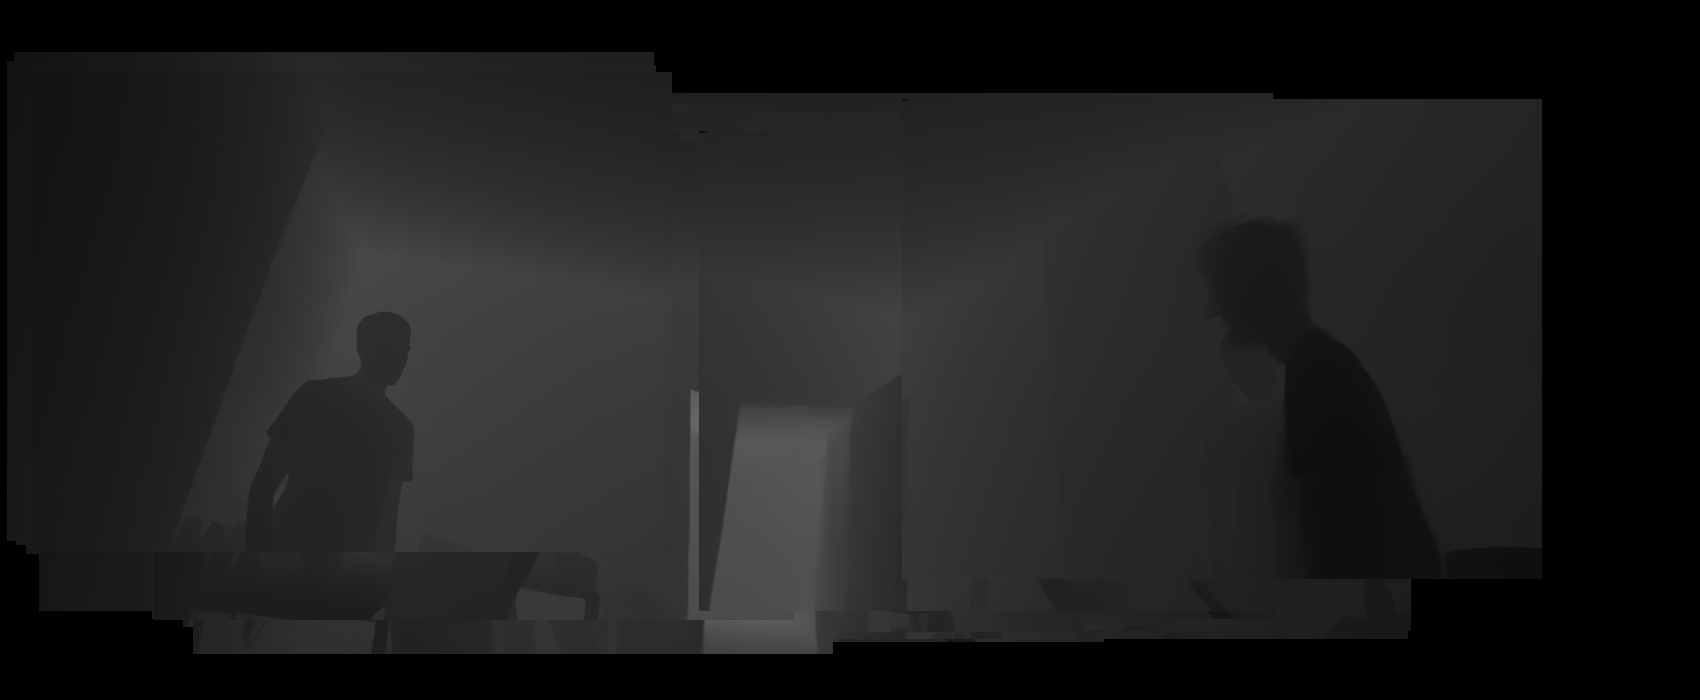
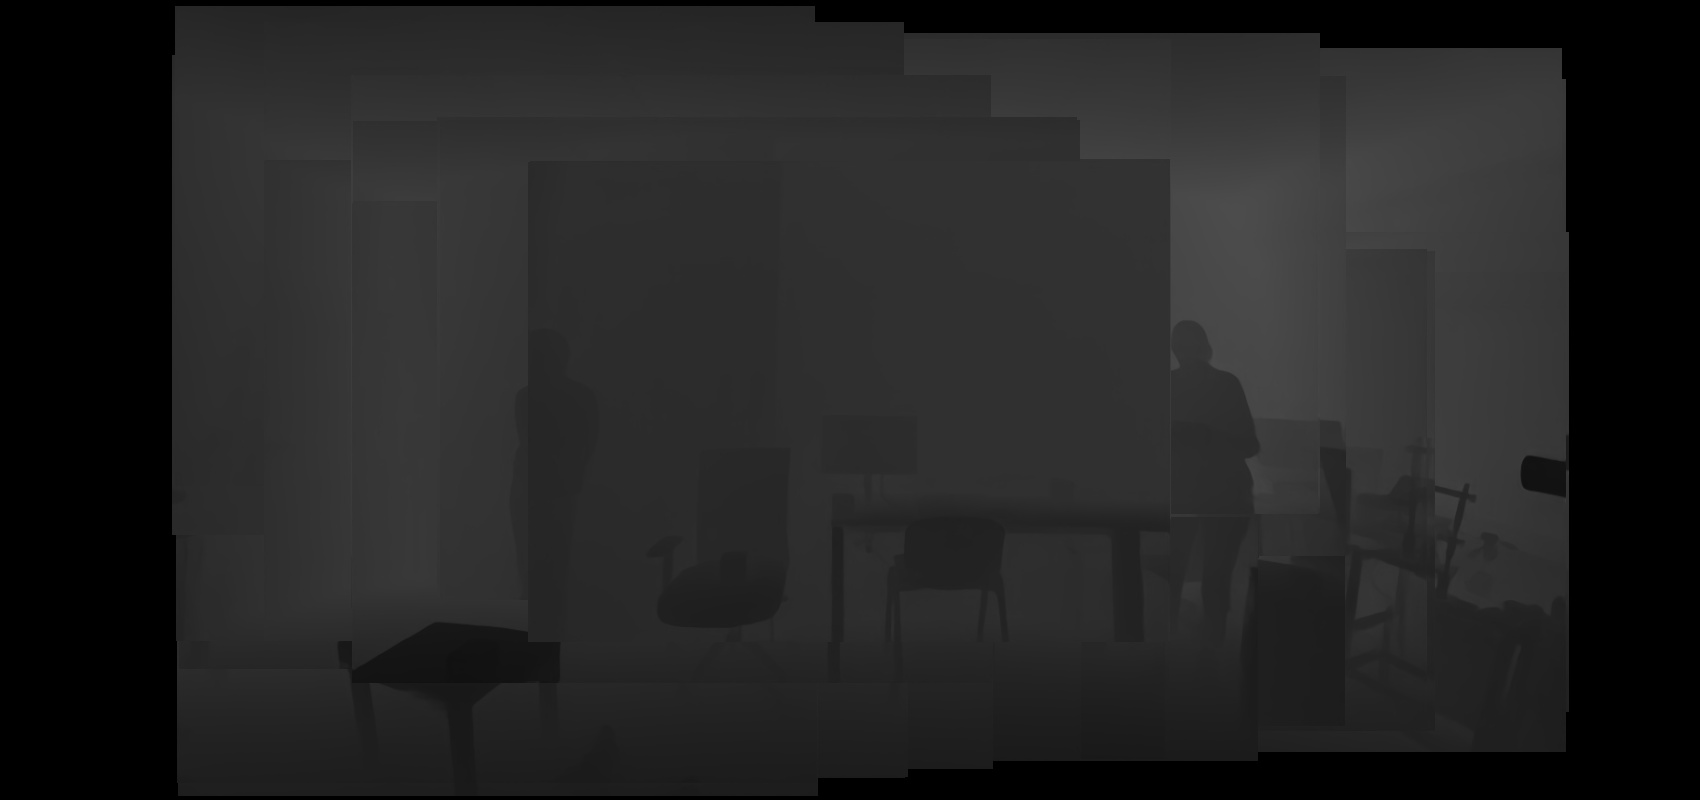
fixed vertical offsets, cube calibration

diff --git a/stiching.py b/stiching.py
@@ -13,16 +13,16 @@ from depth_anything_v2.dpt import DepthAnythingV2
 IMG_WIDTH = 640
 IMG_HEIGHT = 480
 PANORAMA_WIDTH = 1700
-PANORAMA_HEIGHT = 700
+PANORAMA_HEIGHT = 800
 
 LEFT_YAW = -60
 RIGHT_YAW = 60
-BOTTOM_PITCH = 0
-TOP_PITCH = 40
+BOTTOM_PITCH = -20
+TOP_PITCH = 20
 
 PIXEL_LOG_FILE = 'panorama_pixel_log.json'
 YOLO_PATH = '/home/g/gajdosech2/image-stitching-supeglue/yolov8l-worldv2.pt'
-DE_PATH = '/home/g/gajdosech2/Depth-Anything-V2/checkpoints/depth_anything_v2_metric_hypersim_vitl.pth'
+DE_PATH = '/home/g/gajdosech2/Depth-Anything-V2/checkpoints/depth_anything_v2_metric_hypersim_vits.pth'
 SAM_PATH = '/home/g/gajdosech2/image-stitching-supeglue/sam2.1_l.pt'
 DEPTHS_OUT_WORK_DIR = 'depths/'
 MASKS_OUT_WORK_DIR = 'masks/'
@@ -72,6 +72,38 @@ def place_image_on_panorama(panorama, image, x_start, y_start, log_array, image_
             log_index = y * PANORAMA_WIDTH + x
             log_array[log_index] = {'filename': image_filename, 'timestamp': timestamp, 'image_x': x - x_start, 'image_y': y - y_start}
 
+
+def yolo_sam(rgb_panorama):
+    yolo_world = YOLO(YOLO_PATH) 
+    yolo_world.set_classes(['person'])
+    print("\nYOLOWorld Prediction")
+    classes = yolo_world.predict(rgb_panorama, conf=0.6)[0]
+    classes.save(PANORAMAS_OUT_WORK_DIR + 'person_detection.jpg')
+
+    if (len(classes.boxes)):
+        sam = SAM(SAM_PATH)
+        print("\nSAM Prediction")
+        masks = sam(rgb_panorama, bboxes=classes.boxes.xyxy.detach().cpu().numpy())[0]
+
+        for i, mask in enumerate(masks.masks.data.detach().cpu().numpy()):
+            cv2.imwrite(MASKS_OUT_WORK_DIR + f'mask_{i}.png', mask.astype(np.uint8) * 255)
+
+    yolo_world = YOLO(YOLO_PATH) 
+    yolo_world.set_classes(['blue cube'])
+    print("\nYOLOWorld Prediction")
+    classes = yolo_world.predict(rgb_panorama, conf=0.0005)[0]
+    classes.save(PANORAMAS_OUT_WORK_DIR + 'cube_detection.jpg')
+
+    if (len(classes.boxes)):
+        sam = SAM(SAM_PATH)
+        print("\nSAM Prediction")
+        masks = sam(rgb_panorama, bboxes=classes.boxes.xyxy.detach().cpu().numpy())[0]
+
+        for i, mask in enumerate(masks.masks.data.detach().cpu().numpy()):
+            cv2.imwrite(MASKS_OUT_WORK_DIR + f'cube_{i}.png', mask.astype(np.uint8) * 255)
+
+
+
 def stitch_panorama(images_folder, data_log_path, angles_log_path, M):
     image_data = load_data_log(data_log_path)
     angles_data = load_angles_log(angles_log_path)
@@ -87,11 +119,14 @@ def stitch_panorama(images_folder, data_log_path, angles_log_path, M):
         'vitg': {'encoder': 'vitg', 'features': 384, 'out_channels': [1536, 1536, 1536, 1536]}
     }
 
-    depth_anything = DepthAnythingV2(**{**model_configs['vitl'], 'max_depth': 20})
+    depth_anything = DepthAnythingV2(**{**model_configs['vits'], 'max_depth': 20})
     depth_anything.load_state_dict(torch.load(DE_PATH, map_location='cpu'))
     depth_anything = depth_anything.to('cuda').eval()
 
-    for i in range(0, len(image_data), M):
+    sequence_length = len(image_data)
+    # sequence_length = 30
+
+    for i in range(0, sequence_length, M):
         image_info = image_data[i]
         timestamp = image_info['timestamp']
         filename = image_info['filename'].replace('.ppm', '.jpg')
@@ -120,26 +155,15 @@ def stitch_panorama(images_folder, data_log_path, angles_log_path, M):
     cv2.imwrite(PANORAMAS_OUT_WORK_DIR + 'rgb_panorama.jpg', rgb_panorama)
     cv2.imwrite(PANORAMAS_OUT_WORK_DIR + 'depth_panorama.jpg', depth_panorama)
 
-    yolo_world = YOLO(YOLO_PATH) 
-    yolo_world.set_classes(['person'])
-    print("\nYOLOWorld Prediction")
-    classes = yolo_world.predict(rgb_panorama, conf=0.6)[0]
-    classes.save(PANORAMAS_OUT_WORK_DIR + 'person_detection.jpg')
-
-    sam = SAM(SAM_PATH)
-    print("\nSAM Prediction")
-    masks = sam(rgb_panorama, bboxes=classes.boxes.xyxy.detach().cpu().numpy())[0]
-
-    for i, mask in enumerate(masks.masks.data.detach().cpu().numpy()):
-        cv2.imwrite(MASKS_OUT_WORK_DIR + f'mask_{i}.png', mask.astype(np.uint8) * 255)
-
+    yolo_sam(rgb_panorama)
+   
     with open(PIXEL_LOG_FILE, 'w') as log_file:
         json.dump(log_array, log_file)
 
 
 if __name__ == '__main__':
-    images_folder = '/home/g/gajdosech2/datasets/icup/UKBA/leftCamera/'
-    data_log_path = '/home/g/gajdosech2/datasets/icup/UKBA/leftCamera/data.log'
-    angles_log_path = '/home/g/gajdosech2/datasets/icup/UKBA/neckAngles/data.log'
+    images_folder = '/home/g/gajdosech2/datasets/icup/CUBES/leftCam/'
+    data_log_path = '/home/g/gajdosech2/datasets/icup/CUBES/leftCamppm/data.log'
+    angles_log_path = '/home/g/gajdosech2/datasets/icup/CUBES/neckAngles/data.log'
     M = 30
     stitch_panorama(images_folder, data_log_path, angles_log_path, M)

diff --git a/segmentation.py b/segmentation.py
@@ -6,8 +6,8 @@ import open3d as o3d
 
 IMG_WIDTH = 640
 IMG_HEIGHT = 480
-PANORAMA_WIDTH = 1300
-PANORAMA_HEIGHT = 480
+PANORAMA_WIDTH = 1700
+PANORAMA_HEIGHT = 800
 
 FX = 400
 FY = 400
@@ -29,7 +29,7 @@ def apply_mask_and_sample(panorama, mask, log_data):
     log_entry = log_data[px_y * PANORAMA_WIDTH + px_x]
     return log_entry, masked_panorama
 
-def process_depth_and_create_pointcloud(depth_path, image_pixels):
+def process_depth_and_create_pointcloud(depth_path, image_pixels, scaling_matrix=None):
     depth_image = cv2.imread(depth_path, cv2.IMREAD_UNCHANGED)
     masked_depth = cv2.bitwise_and(depth_image, depth_image, mask=image_pixels)
 
@@ -49,12 +49,32 @@ def process_depth_and_create_pointcloud(depth_path, image_pixels):
     o3d_cloud = o3d.geometry.PointCloud()
     o3d_cloud.points = o3d.utility.Vector3dVector(point_cloud)
 
+    if scaling_matrix is not None:
+        o3d_cloud = o3d_cloud.transform(scaling_matrix)
+
     o3d.visualization.draw_geometries([o3d_cloud])
+    return o3d_cloud
+
+def fit_cuboid(cube_cloud):
+    aabb = cube_cloud.get_axis_aligned_bounding_box()
+
+    extent = aabb.get_extent()
+    print("AABB extents:", extent)
+
+    target_size = 5
+    scaling_factors = [target_size / size if size != 0 else 1 for size in extent]
+    print("Scaling factors for each axis:", scaling_factors)
+    scaling_matrix = np.diag(scaling_factors + [1])
+
+    aabb.color = (1, 0, 0)
+    cube_cloud.paint_uniform_color([0, 1, 0]) 
+    o3d.visualization.draw_geometries([cube_cloud, aabb])
+    return scaling_matrix
 
 
 if __name__ == '__main__':
     panorama_path = '/home/g/gajdosech2/image-stitching-supeglue/rgb_panorama.jpg'
-    mask_path = '/home/g/gajdosech2/image-stitching-supeglue/mask_0.png'
+    mask_path = '/home/g/gajdosech2/image-stitching-supeglue/masks/cube_0.png'
     log_file_path = '/home/g/gajdosech2/image-stitching-supeglue/panorama_pixel_log.json'
     depths_folder = '/home/g/gajdosech2/image-stitching-supeglue/depths/'
 
@@ -73,12 +93,16 @@ if __name__ == '__main__':
             rgb_value = np.sum(masked_panorama[y, x])
             if rgb_value:
                 log_index = y * PANORAMA_WIDTH + x
-                image_x = int(log_data[log_index]['image_x'])
-                image_y = int(log_data[log_index]['image_y'])
-                image_pixels[image_y, image_x] = 1
+                if (log_data[log_index]['filename'] == log_entry['filename']):
+                    image_x = int(log_data[log_index]['image_x'])
+                    image_y = int(log_data[log_index]['image_y'])
+                    image_pixels[image_y, image_x] = 1
 
     cv2.imwrite(OUT_WORK_DIR + 'image_pixels.jpg', image_pixels * 255)
 
-    depth_path = f'{depths_folder}/{log_entry['filename']}'
+    depth_path = f"{depths_folder}/{log_entry['filename']}"
 
-    process_depth_and_create_pointcloud(depth_path, image_pixels)
+    point_cloud = process_depth_and_create_pointcloud(depth_path, image_pixels)
+    scaling_matrix = fit_cuboid(point_cloud)
+
+    process_depth_and_create_pointcloud(depth_path, np.ones((IMG_HEIGHT, IMG_WIDTH), dtype=np.uint8), scaling_matrix)
